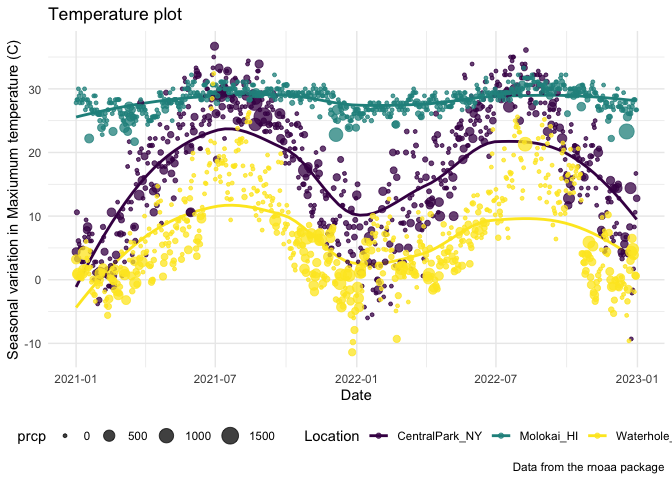
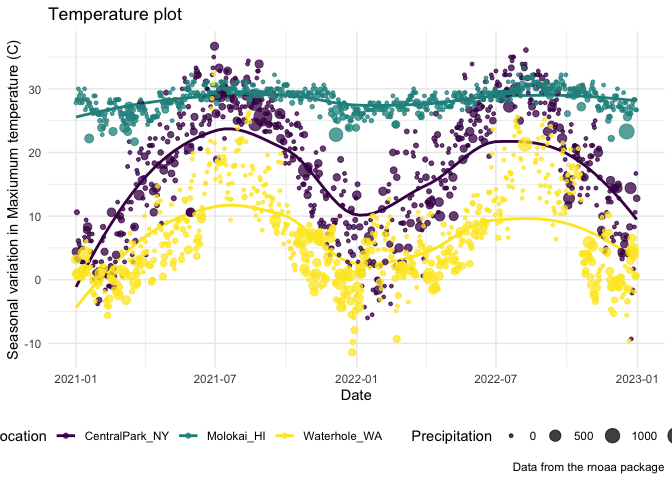
Patchwork

Changed region(s): [[0.0, 0.875, 1.0, 0.9375]]

diff --git a/Visualization_2.md b/Visualization_2.md
@@ -222,7 +222,8 @@ weather_df|>
     x = "Date",
     y = "Seasonal variation in Maxiumum temperature (C)",
     color = "Location",
-    caption = "Data from the rnoaa package"
+    caption = "Data from the rnoaa package", 
+    size= "Precipitation"
   ) + 
   viridis::scale_color_viridis(discrete = TRUE) + 
   theme_minimal() + 
@@ -238,3 +239,117 @@ weather_df|>
     ## (`geom_point()`).
 
 ![](Visualization_2_files/figure-gfm/unnamed-chunk-9-1.png)<!-- -->
+
+# Extra Bonus stuff in `ggplot`
+
+Use different datasets in different `geom`s
+
+Creating dataframes from locations central park, molokai. You dont
+always have to put two dataframes in the same dataset to plot an
+overlapping plot!!!
+
+``` r
+central_park_df = 
+  weather_df |> 
+  filter(name =="CentralPark_NY")
+
+molokai_df = 
+  weather_df |> 
+  filter(name == "Molokai_HI")
+
+molokai_df |> 
+  ggplot(aes(x= date, y = tmax, color = name)) + 
+  geom_point () + 
+  geom_line(data = central_park_df)
+```
+
+    ## Warning: Removed 1 row containing missing values or values outside the scale range
+    ## (`geom_point()`).
+
+![](Visualization_2_files/figure-gfm/unnamed-chunk-10-1.png)<!-- --> \##
+Mulitple Panels
+
+``` r
+weather_df |> 
+  ggplot(aes(x=tmax, fill = name))+ 
+  geom_density() + 
+  facet_grid(.~name)
+```
+
+    ## Warning: Removed 17 rows containing non-finite outside the scale range
+    ## (`stat_density()`).
+
+![](Visualization_2_files/figure-gfm/unnamed-chunk-11-1.png)<!-- -->
+
+Patching two seperate plots together when there are different plot
+types.
+
+- either paste two together: ggp_tmax_tmin + ggp_tmax_density OR
+
+- put two plots together and one plot at the bottom: (ggp_tmax_tmin +
+  ggp_tmax_density)/ ggp_tmax_date
+
+``` r
+ggp_tmax_tmin = 
+  weather_df |> 
+  ggplot(aes(x= tmin, y= tmax, color= name))+ 
+  geom_point(alpha = .3) 
+
+ggp_tmax_density = 
+  weather_df |> 
+  ggplot(aes(x= tmax, color= name))+ 
+  geom_density(alpha = .3) 
+
+ggp_tmax_date = 
+  weather_df |> 
+  ggplot(aes(x= date, y=tmax, color= name))+ 
+  geom_point() + 
+  geom_smooth(se=FALSE)
+
+(ggp_tmax_tmin + ggp_tmax_density)/ ggp_tmax_date
+```
+
+    ## Warning: Removed 17 rows containing missing values or values outside the scale range
+    ## (`geom_point()`).
+
+    ## Warning: Removed 17 rows containing non-finite outside the scale range
+    ## (`stat_density()`).
+
+    ## `geom_smooth()` using method = 'loess' and formula = 'y ~ x'
+
+    ## Warning: Removed 17 rows containing non-finite outside the scale range
+    ## (`stat_smooth()`).
+
+    ## Warning: Removed 17 rows containing missing values or values outside the scale range
+    ## (`geom_point()`).
+
+![](Visualization_2_files/figure-gfm/unnamed-chunk-12-1.png)<!-- -->
+
+# Setting options
+
+set options to default. Use this at the beginning of the documents if
+you want to set these preferences.
+
+``` r
+library(tidyverse)
+
+knitr::opts_chunk$set(
+  fig.width = 6,
+  fig.asp = .6,
+  out.width = "90%"
+)
+
+theme_set(theme_minimal() + theme(legend.position = "bottom"))
+
+options(
+  ggplot2.continuous.colour = "viridis",
+  ggplot2.continuous.fill = "viridis"
+)
+
+scale_colour_discrete = scale_colour_viridis_d
+scale_fill_discrete = scale_fill_viridis_d
+```
+
+## Data Manipulation
+
+## Data argument in `geom_*`
